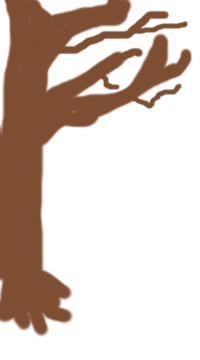
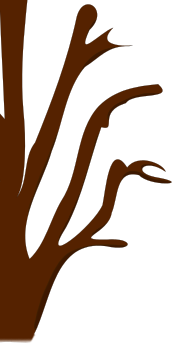
Better trees, random rotation on leaf litter

diff --git a/src/com/maycontainsoftware/pumpkinpatchpanic/MainMenuScreen.java b/src/com/maycontainsoftware/pumpkinpatchpanic/MainMenuScreen.java
@@ -61,18 +61,18 @@ public class MainMenuScreen implements Screen {
 		hillside.setSize(640*2, 215*2);
 		stage.addActor(hillside);
 
-		// tree_left is 360x200
+		// tree_left is 180x360
 		final Image treeLeft = new Image(atlas.findRegion("tree_left"));
-		treeLeft.setSize(400, 720);
-		treeLeft.setPosition(-400, 0);
+		treeLeft.setSize(180*2, 360*2);
+		treeLeft.setPosition(-180*2, 0);
 		treeLeft.addAction(Actions.moveTo(0, 0, 0.5f));
 		stage.addActor(treeLeft);
 
-		// tree_right is 360x200
+		// tree_right is 270x360
 		final Image treeRight = new Image(atlas.findRegion("tree_right"));
-		treeRight.setSize(400, 720);
+		treeRight.setSize(270*2, 360*2);
 		treeRight.setPosition(1280, 0);
-		treeRight.addAction(Actions.moveTo(1280 - 400, 0, 0.5f));
+		treeRight.addAction(Actions.moveTo(1280 - 270*2, 0, 0.5f));
 		stage.addActor(treeRight);
 
 		// Leaf litter
@@ -81,6 +81,7 @@ public class MainMenuScreen implements Screen {
 			final int x = MathUtils.random(100, (1280 - 200));
 			final int y = MathUtils.random(50, 250);
 			leafLitter.setPosition(x, y);
+			leafLitter.setRotation(MathUtils.random(360.0f));
 			// TODO: Z-index is not a Z-index, just an index into the array of Actors in the Group. Need a to manage
 			// z-indexing manually? Or easier to avoid the problem?
 			// leafLitter.setZIndex(y);
